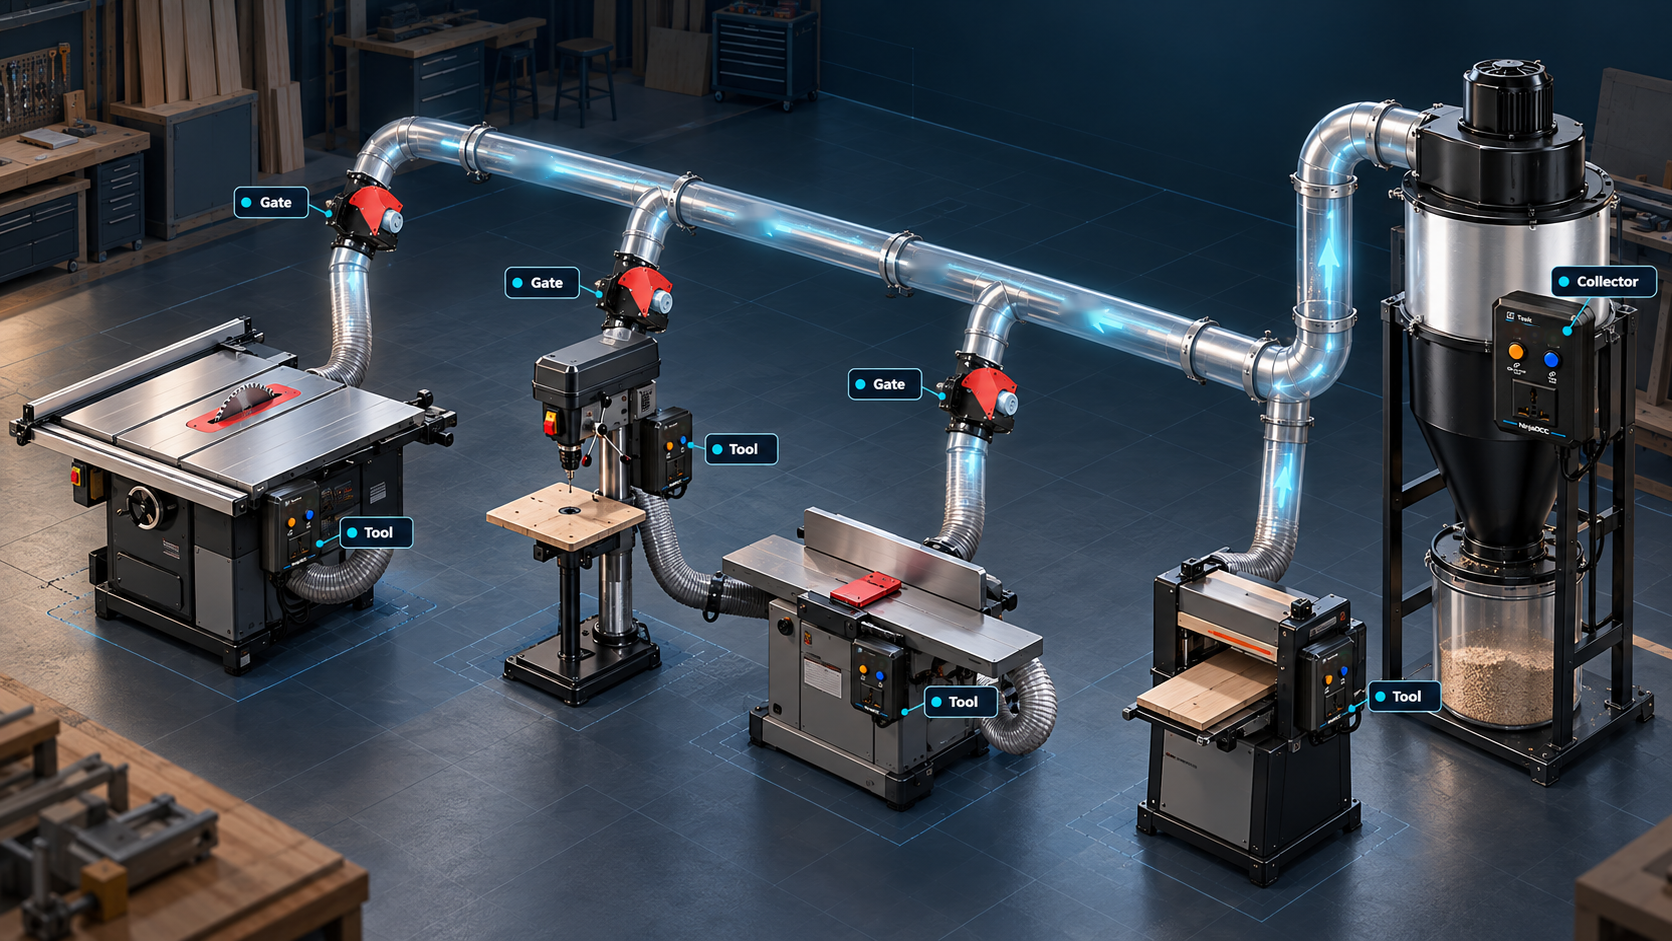
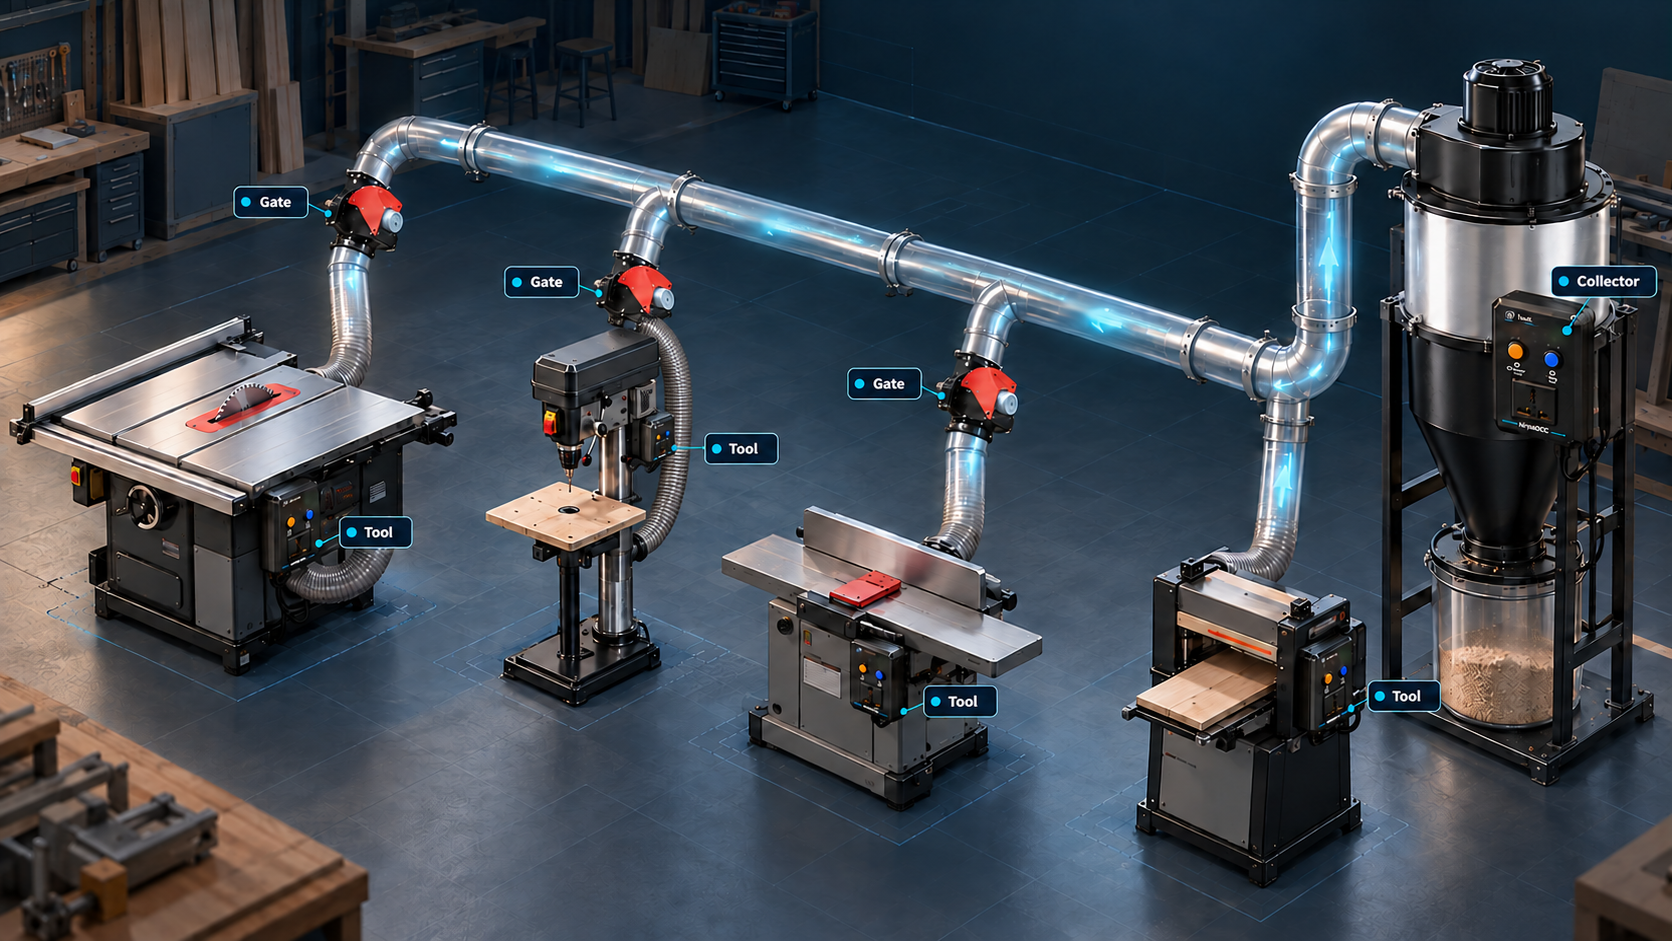
[Overview]: Update ninjadcc system operations
[Issue Description]:
	1. None

[Moidfy]:
	1. Update ninjadcc system operations

[Owner]: Ninja

diff --git a/products/ninjadcc.html b/products/ninjadcc.html
@@ -66,7 +66,7 @@
         <svg class="dcc-overlay" viewBox="0 0 1672 941" aria-hidden="true">
           <g id="airflowPaths">
             <path id="flow0" class="dcc-flow" d="M305 545 C321 539 334 523 342 500 C354 460 341 423 343 380 L343 320 C343 285 335 267 343 244 L354 207 C351 180 363 147 390 136" />
-            <path id="flow1" class="dcc-flow" d="M725 584 C694 579 665 556 651 518 C642 485 640 453 640 413 L640 351 C638 329 630 311 640 286 C650 265 643 246 653 206" />
+            <path id="flow1" class="dcc-flow" d="M635 552 C651 544 669 517 675 488 C683 446 684 404 680 367 C677 343 665 326 648 318 C640 314 638 304 640 290 C642 264 646 235 653 206" />
             <path id="flow2" class="dcc-flow" d="M991 699 C1011 699 1017 682 999 665 C981 646 958 633 954 610 C945 568 951 519 956 472 L961 398 C967 376 961 360 961 341 C960 318 966 304 978 291" />
             <path id="flow3" class="dcc-flow" d="M1380 697 C1395 679 1377 658 1354 639 C1332 619 1304 603 1283 585 C1260 563 1258 544 1262 512 L1275 451 C1281 418 1278 383 1280 351" />
             <path id="trunk0" class="dcc-flow" d="M390 136 C425 127 450 145 487 153 L653 206" />
